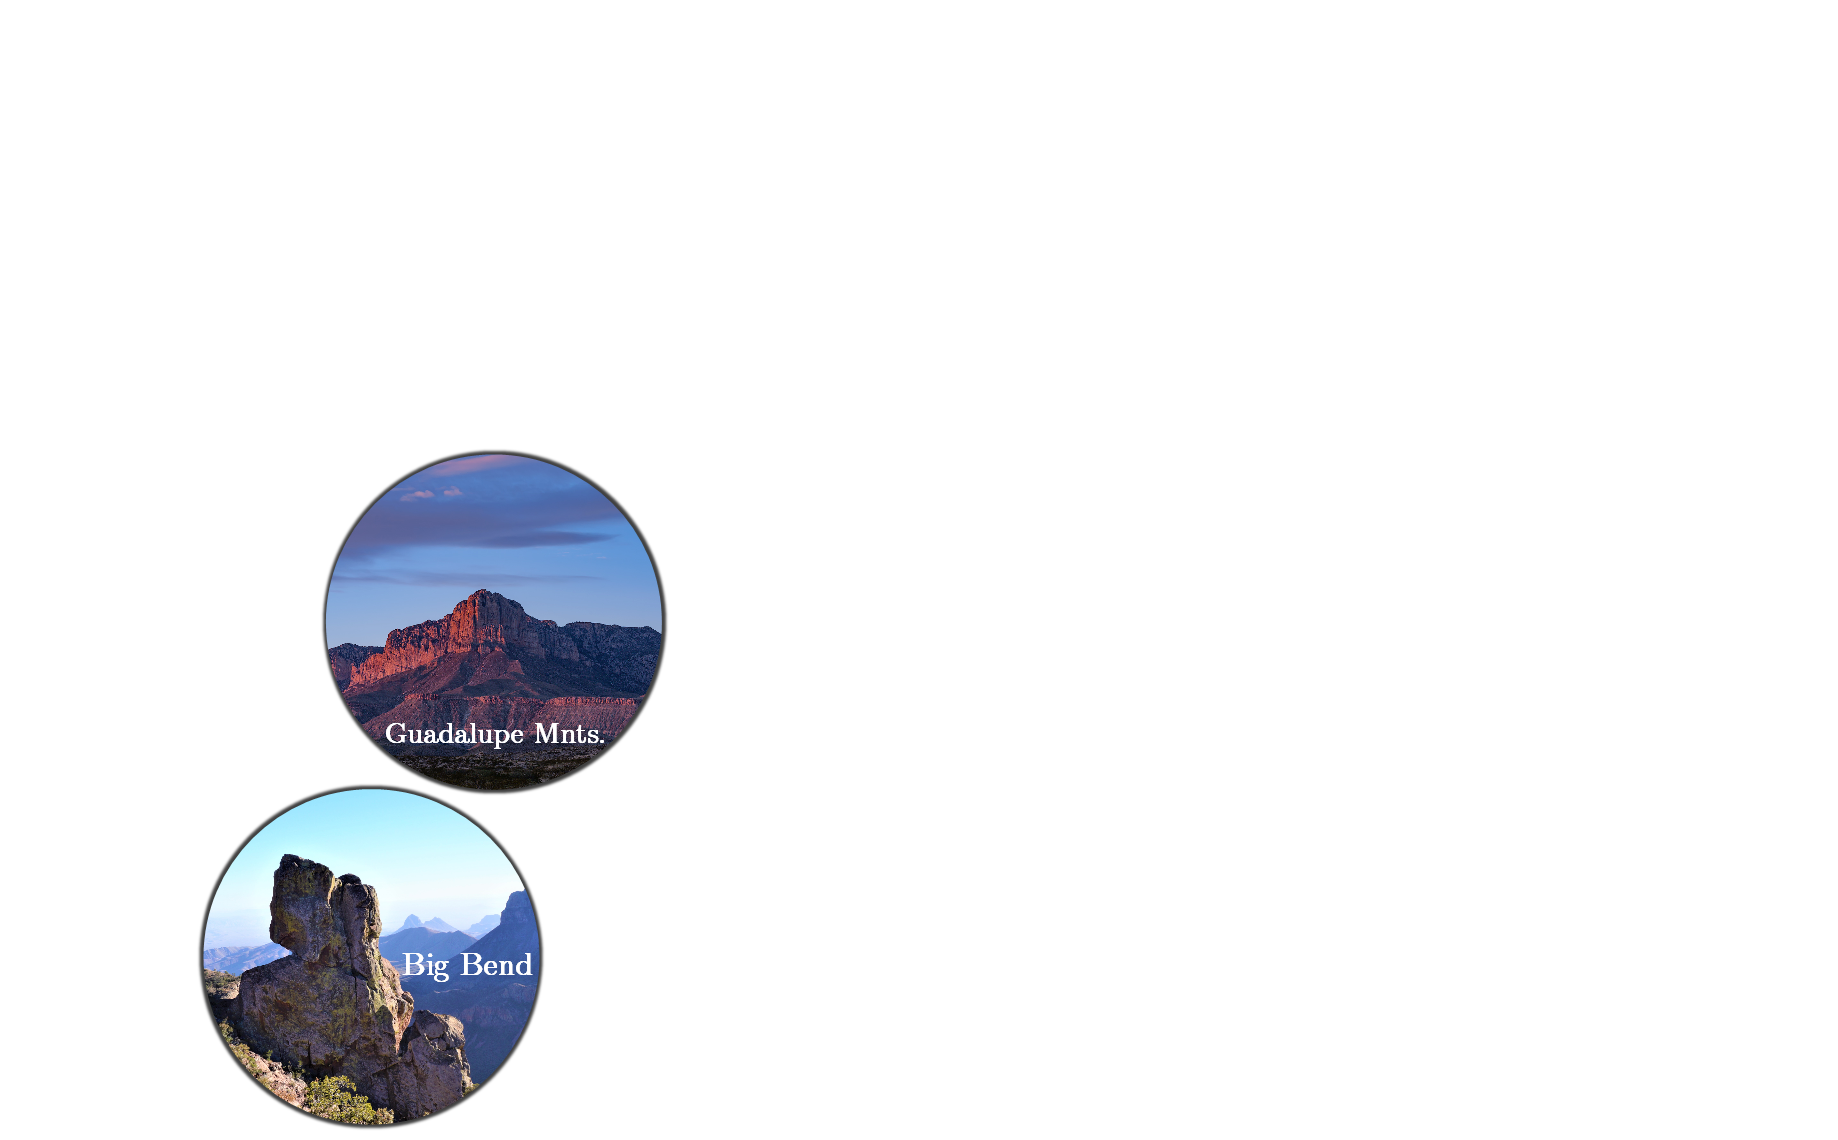
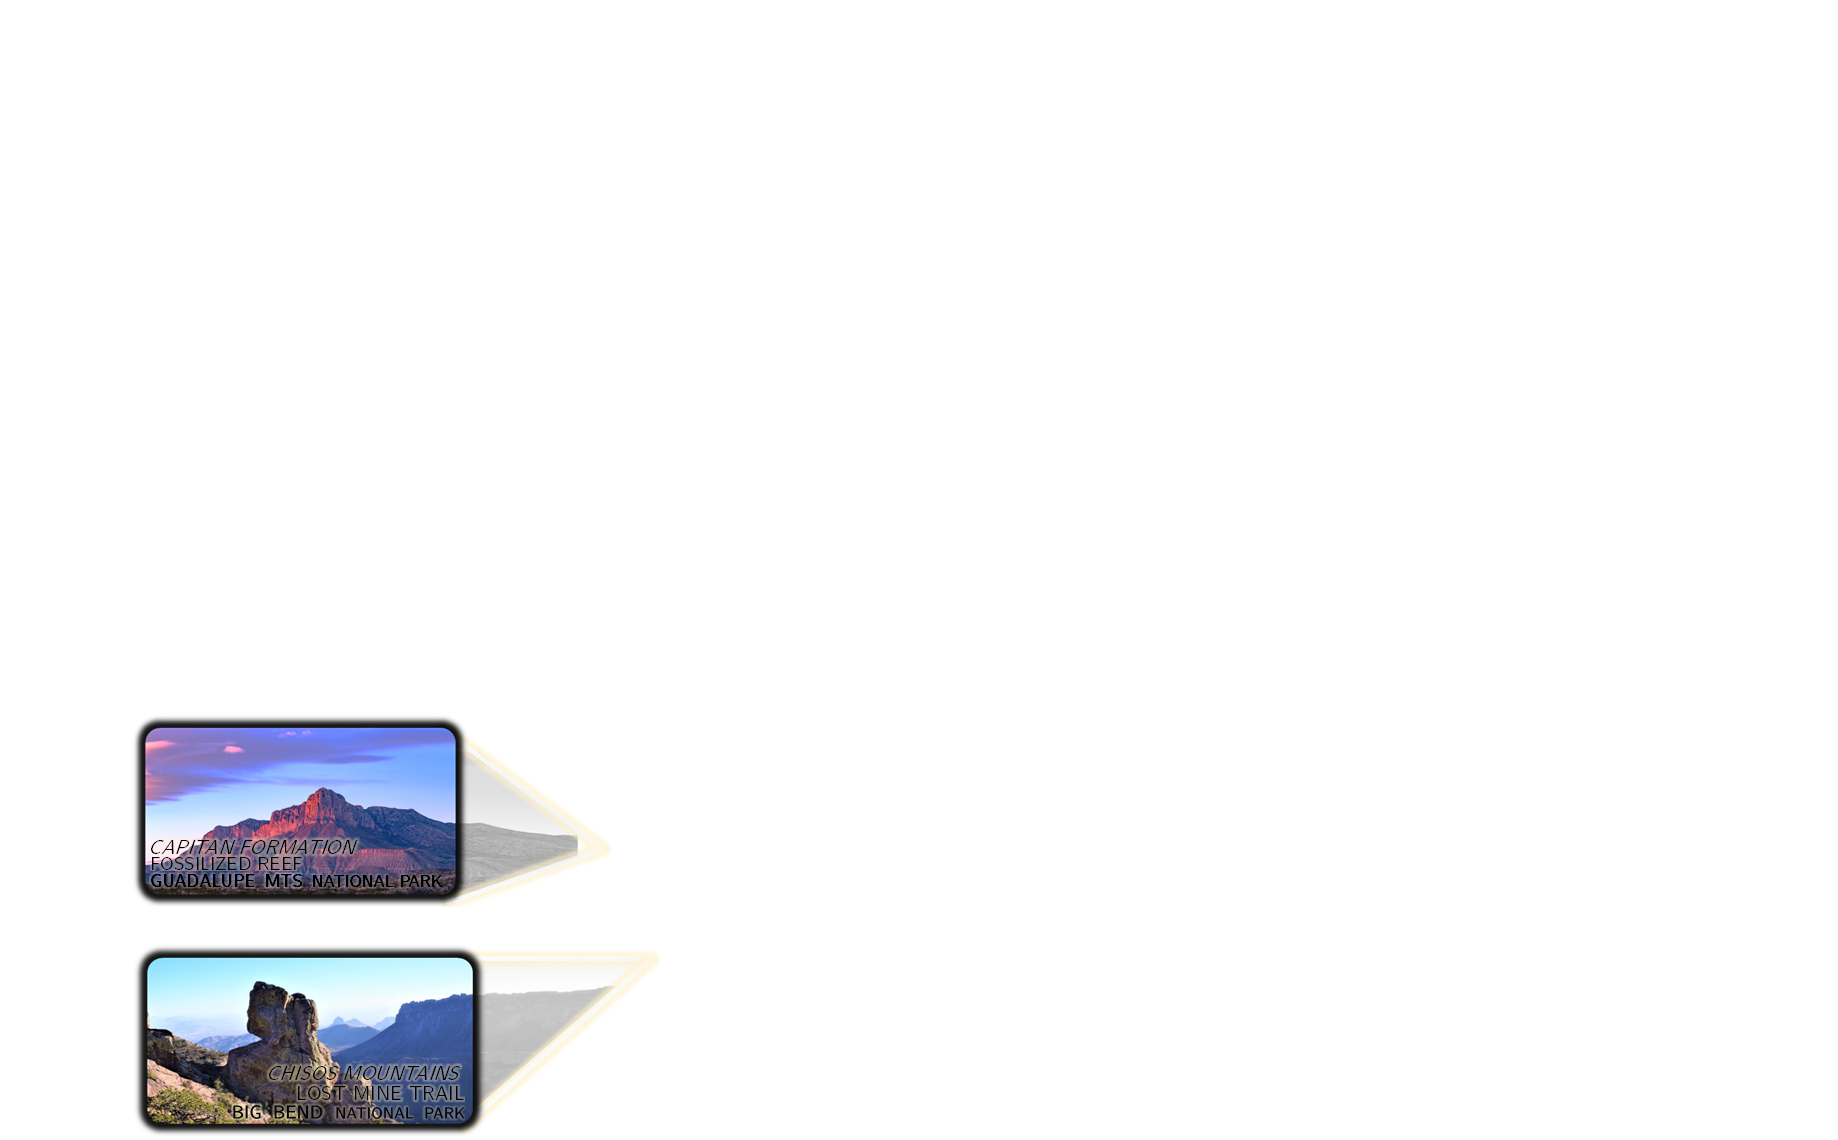
updated NP graphics

Changed region(s): [[0.062, 0.3684, 0.3721, 1.0]]

diff --git a/index.html b/index.html
@@ -49,11 +49,9 @@
       </p>
       <div style="height:10vh;background-color: #fff;"></div>
       <div class="imgContainer">  
-
-      <p class="animate-on-scroll imageScaleIn" style="filter: drop-shadow(5px 5px 5px rgba(0, 0, 0,  0.4));"><img src="images/west-tx-usa-sat.png"> 
-      </p>
-      <p class="animate-on-scroll imageFadeIn"><img src="images/PecosStar.png"> 
-      </p></div>
+        <p class="animate-on-scroll imageScaleIn" style="filter: drop-shadow(5px 5px 5px rgba(0, 0, 0,  0.4));"><img src="images/west-tx-usa-sat.png" alt="Satellite Picture of United States"> 
+        </p>
+      </div>
     </div>
   </section>
   <div class="spacer"></div>
@@ -67,9 +65,8 @@
     </div>
     <div style="height:8vh;background-color: #fff;"></div>
     <div class="scrollContainer imgContainer">  
-      <p style="z-index:4;"  class="animate-on-scroll imageScaleIn" > <img style="z-index:4"src="images/Pecos2.png" alt="Pecos TX Rodeo Picture">
-      </p>
-      <p style="z-index:3;"class="animate-on-scroll imageFadeIn"><img style="z-index:3 ;" src="images/PecosLine.png" alt="Pecos TX Rodeo Picture">
+      <p style="z-index:4;"  class="animate-on-scroll imageScaleIn" > 
+        <img style="z-index:4"src="images/Pecos2.png" alt="Pecos TX Rodeo Picture">
       </p>
     </div>    </div>
 
@@ -95,7 +92,6 @@
       </div>
       <div class="scrollContainer imgContainer">  
         <p class="animate-on-scroll imageFadeIn"> <img src="images/NPs.png" alt="Big Bend and Guadalupe Mountains National Parks"></p>
-        <p class="animate-on-scroll imageFadeIn"> <img  src="images/NPLines.png" alt="Lines"> </p>
       </div>
       <div class="spacer"></div>
 
